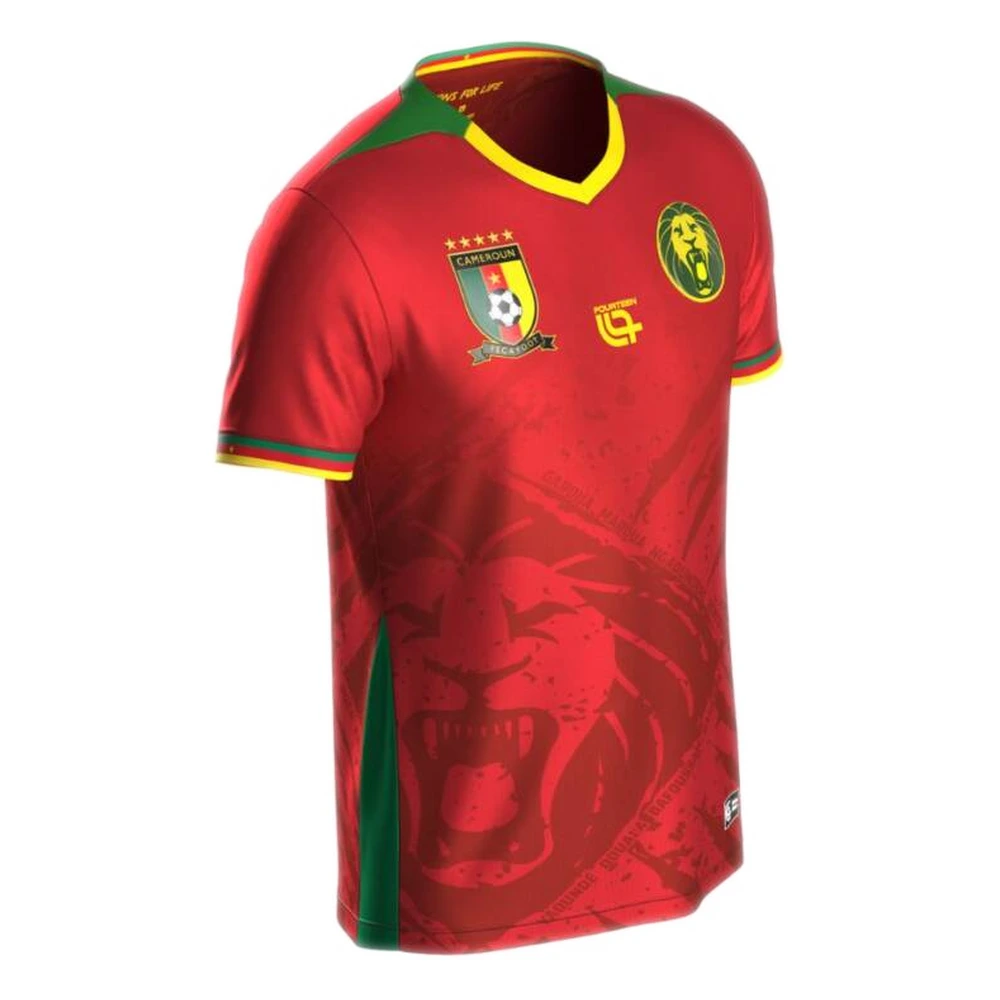
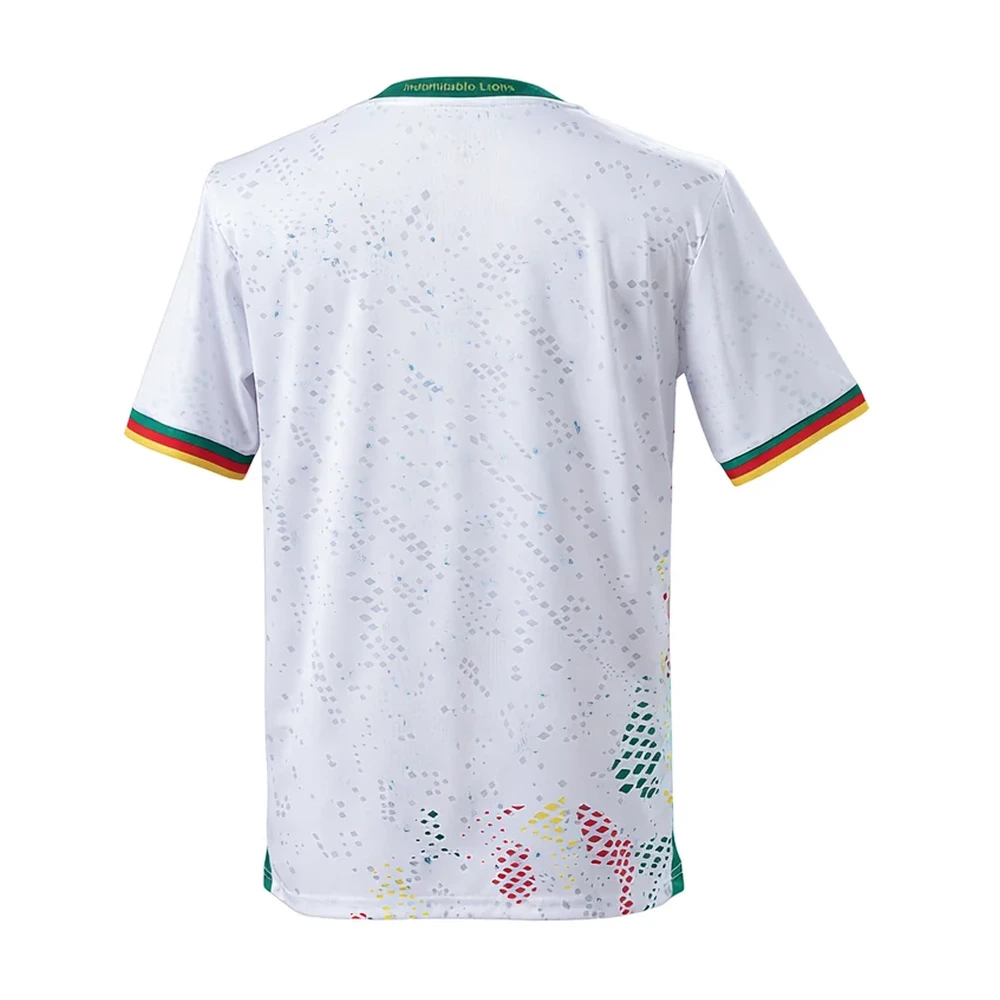
Remplace les images Cameroun Domicile/Extérieur 2025-26 et retire le Third

diff --git a/index.html b/index.html
@@ -1908,9 +1908,8 @@ const products = [
   { id:684, club:'Cagliari', name:'Maillot Third', season:'2025-26', league:'Serie A', type:'standard', emoji:'👕', mainColor:'#1A8EBC', accentColor:'#8B89A0', flocageColor:'#FFFFFF', frontImage:'images/cagliari-3rd-2526-1.webp', carouselImages:['images/cagliari-3rd-2526-1.webp','images/cagliari-3rd-2526-2.webp'] },
   { id:895, club:'Cagliari', name:'Maillot Domicile', season:'2025-26', league:'Serie A', type:'standard', emoji:'👕', mainColor:'#8B1E3F', accentColor:'#1F2A4A', flocageColor:'#FFFFFF', frontImage:'images/cagliari-home-2526-1.webp', carouselImages:['images/cagliari-home-2526-1.webp','images/cagliari-home-2526-2.webp'] },
   { id:896, club:'Cagliari', name:'Maillot Extérieur', season:'2025-26', league:'Serie A', type:'standard', emoji:'👕', mainColor:'#F5F5F0', accentColor:'#1F2A4A', flocageColor:'#8B1E3F', frontImage:'images/cagliari-ext-2526-1.webp', carouselImages:['images/cagliari-ext-2526-1.webp','images/cagliari-ext-2526-2.webp'] },
-  { id:685, club:'Cameroun', name:'Maillot Domicile', season:'2025-26', league:'International', type:'standard', emoji:'🇨🇲', mainColor:'#397347', accentColor:'#B8B972', flocageColor:'#FFFFFF', frontImage:'images/cameroun-home-2526-1.webp', carouselImages:['images/cameroun-home-2526-1.webp','images/cameroun-home-2526-2.webp'] },
-  { id:686, club:'Cameroun', name:'Maillot Extérieur', season:'2025-26', league:'International', type:'standard', emoji:'🇨🇲', mainColor:'#8C2926', accentColor:'#D24B42', flocageColor:'#FFFFFF', frontImage:'images/cameroun-ext-2526-1.webp', carouselImages:['images/cameroun-ext-2526-1.webp','images/cameroun-ext-2526-2.webp'] },
-  { id:687, club:'Cameroun', name:'Maillot Third', season:'2025-26', league:'International', type:'standard', emoji:'🇨🇲', mainColor:'#C3C3BB', accentColor:'#48654A', flocageColor:'#111111', frontImage:'images/cameroun-3rd-2526-1.webp', carouselImages:['images/cameroun-3rd-2526-1.webp','images/cameroun-3rd-2526-2.webp'] },
+  { id:685, club:'Cameroun', name:'Maillot Domicile', season:'2025-26', league:'International', type:'standard', emoji:'🇨🇲', mainColor:'#0F5A3A', accentColor:'#E6212B', flocageColor:'#F5D31A', frontImage:'images/cameroun-home-2526-1.webp', carouselImages:['images/cameroun-home-2526-1.webp','images/cameroun-home-2526-2.webp'] },
+  { id:686, club:'Cameroun', name:'Maillot Extérieur', season:'2025-26', league:'International', type:'standard', emoji:'🇨🇲', mainColor:'#F4F4F4', accentColor:'#0B8A3C', flocageColor:'#0B8A3C', frontImage:'images/cameroun-ext-2526-1.webp', carouselImages:['images/cameroun-ext-2526-1.webp','images/cameroun-ext-2526-2.webp'] },
   { id:688, club:'Canada', name:'Maillot Domicile', season:'2026', league:'International', type:'standard', emoji:'🇨🇦', mainColor:'#B00314', accentColor:'#CD7C83', flocageColor:'#FFFFFF', frontImage:'images/canada-home-26-1.webp', carouselImages:['images/canada-home-26-1.webp','images/canada-home-26-2.webp'] },
   { id:689, club:'Canada', name:'Maillot Extérieur', season:'2026', league:'International', type:'standard', emoji:'🇨🇦', mainColor:'#2A2828', accentColor:'#757474', flocageColor:'#FFFFFF', frontImage:'images/canada-ext-26-1.webp', carouselImages:['images/canada-ext-26-1.webp','images/canada-ext-26-2.webp'] },
   { id:690, club:'Cap Vert', name:'Maillot Domicile', season:'2026', league:'International', type:'standard', emoji:'🇨🇻', mainColor:'#20356C', accentColor:'#B1B0C1', flocageColor:'#FFFFFF', frontImage:'images/capvert-home-26-1.webp', carouselImages:['images/capvert-home-26-1.webp','images/capvert-home-26-2.webp'] },
